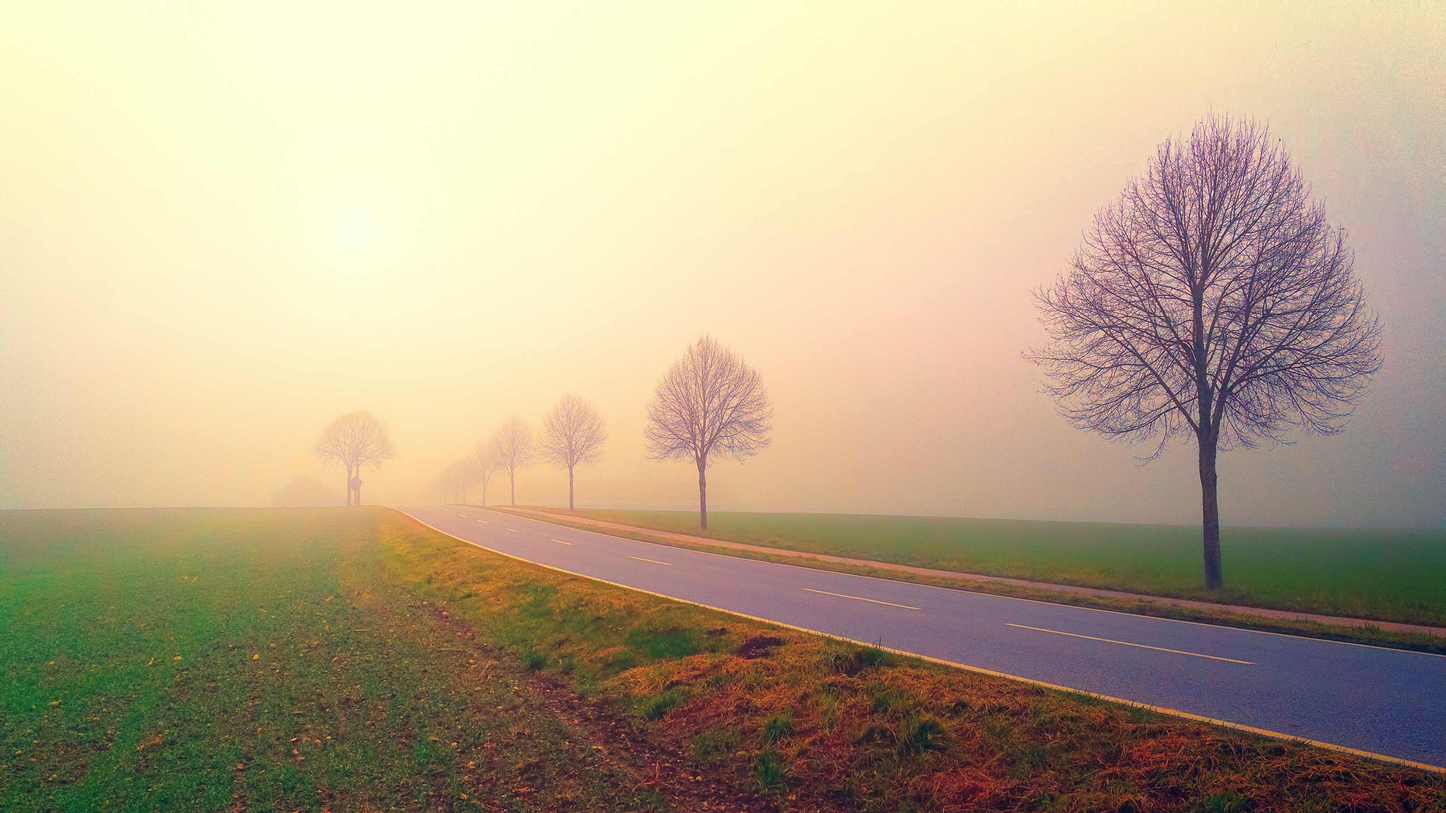
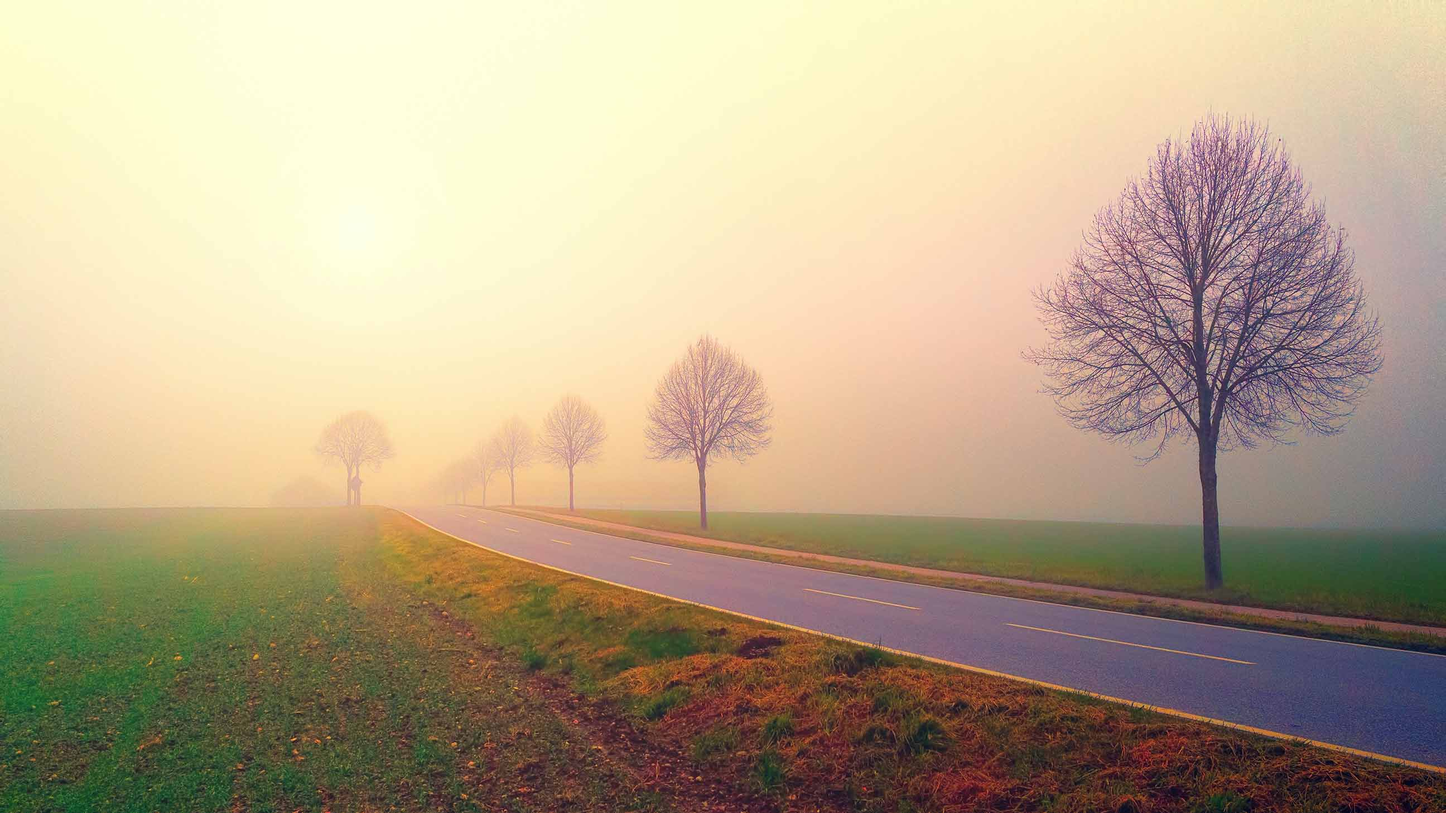
Reduced the image size

Changed region(s): [[0.7188, 0.1852, 0.9375, 0.5247], [0.4688, 0.463, 0.5, 0.5247]]

diff --git a/index.html b/index.html
@@ -65,7 +65,9 @@
                     <br><br>
                     The Charity NFT
                     collectibles will be a token of your charity contributions as well your digital identity that grants
-                    you access to charity discord channels.</p>
+                    you access to charity discord channels.<br>
+                    Each month we release up to 100 new art collectibles.
+                </p>
             </div>
         </section>
 
